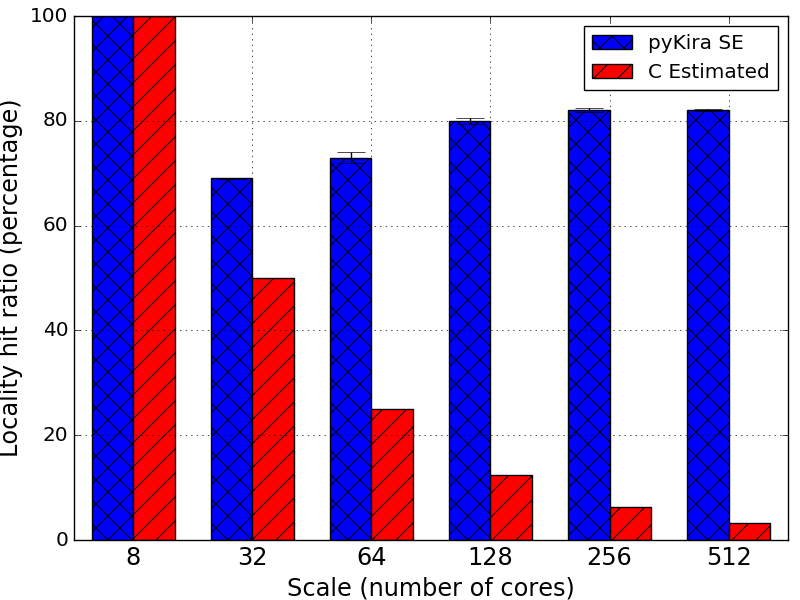
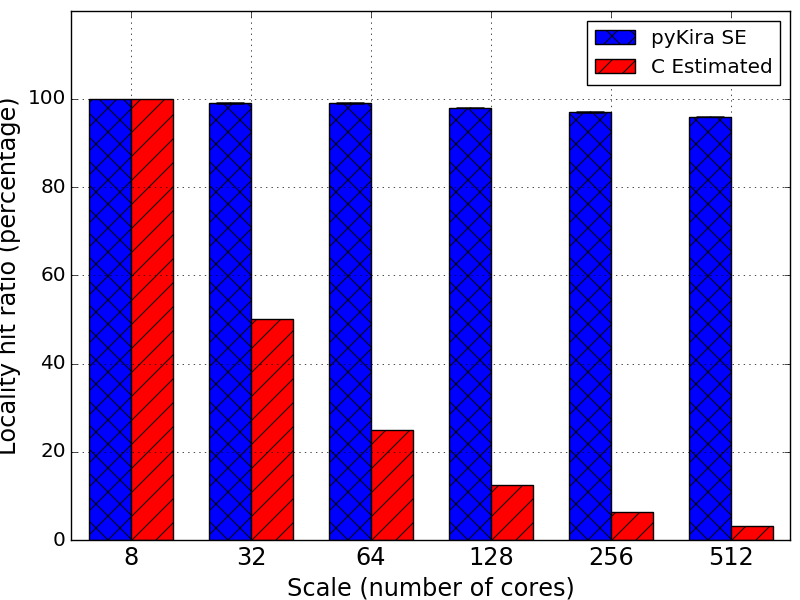
editing in performance

diff --git a/Kira.tex b/Kira.tex
@@ -63,6 +63,19 @@
 \usepackage{url}
 \usepackage{balance}
 
+\newif\ifdraft
+\drafttrue
+%\draftfalse                                                                              
+\ifdraft
+\newcommand{\zhaonote}[1]{{\textcolor{cyan}    { ***Zhao:      #1 }}}
+\newcommand{\note}[1]{ {\textcolor{red}    {\bf #1 }}}
+\newcommand{\franknote}[1]{{\textcolor{green}    { ***Frank:      #1 }}}
+\else
+\newcommand{\zhaonote}[1]{}
+\newcommand{\franknote}[1]{}
+\newcommand{\note}[1]{}
+\fi
+
 \lstset{language=java, numbers=left, numberstyle=\tiny\color{black}, numbersep=3pt, escapeinside={\$}, basicstyle=\footnotesize\ttfamily, escapeinside={\%*}{*)}}
 
 % Some very useful LaTeX packages include:
@@ -494,10 +507,10 @@ We present Kira, a flexible and distributed astronomy image processing toolkit u
 We then use the Kira toolkit to implement a Source Extractor application for astronomy images, called Kira SE.
 With Kira SE as the use case, we study the programming flexibility, dataflow richness, scheduling capacity and performance
 of Apache Spark running on the EC2 cloud.
-By exploiting data locality, Kira SE achieves a 2.5$\times$ speedup over an equivalent C program when analyzing a 1TB
+By exploiting data locality, Kira SE achieves a 4.1$\times$ speedup over an equivalent C program when analyzing a 1TB
 dataset using 512 cores on the Amazon EC2 cloud. 
-Furthermore, we show that by leveraging software originally designed for big data infrastructure, Kira SE achieves competitive performance to the C implementation
-running on the NERSC Edison supercomputer.
+Furthermore, we show that by leveraging software originally designed for big data infrastructure, Kira SE achieves a 1.8$\times$ speedup over  
+the C implementation running on the NERSC Edison supercomputer.
 Our experience with Kira indicates that emerging Big Data platforms such as Apache Spark are a performant alternative for many-task scientific applications.  
 
 \end{abstract}
@@ -584,7 +597,7 @@ We use a real world application, an image source extractor (Kira SE), to examine
 and scheduling capacity of Spark. We evaluate Kira SE's performance by comparing against
 an equivalent C implementation that is parallelized using HPC tools. Leveraging a platform like Apache Spark provides several advantages for many-task applications:
 \begin{enumerate}
-\item Spark can use existing astronomy libraries.
+\item Spark can use existing astronomy libraries written in Python and C.
 This allows astronomers to reuse existing libraries to build new analysis functionality.
 \item Spark supports a broad range of dataflow patterns such as pipeline, broadcast, scatter, gather, reduce, allgather, 
 and alltoall (shuffle). This broad dataflow pattern support can be used to optimize the data transfer between computation stages.
@@ -593,7 +606,7 @@ as well as data stored in HPC-style shared file systems such as GlusterFS~\cite{
 \item The Kira toolkit also inherits Spark's fault tolerance mechanism, which is a feature missing from MPI~\cite{gropp96}.
 \end{enumerate}
 
-Our experiments show that Spark is capable of managing $O(10^6)$ tasks and that Kira SE runs 2.5x faster than an equivalent C program when using a shared file system on the Amazon EC2 cloud with the 1TB Data Release 7 from the Sloan Digital Sky Survey~\cite{york00}. We also show that running Kira SE in the Amazon EC2 cloud can achieve performance that is competitive with running the equivalent C program running on the NERSC Edison supercomputer.
+Our experiments show that Spark is capable of managing $O(10^6)$ tasks and that Kira SE runs 4.1$\times$ faster than an equivalent C program when using a shared file system on the Amazon EC2 cloud with the 1TB Data Release 7 from the Sloan Digital Sky Survey~\cite{york00}. We also show that running Kira SE in the Amazon EC2 cloud can achieve performance that is 1.8$\times$ faster than that of the equivalent C program running on the NERSC Edison supercomputer.
 
 Our experience with Kira indicates that Big Data platforms such as Apache Spark are a competitive alternative for many-task scientific applications.   
 We believe this is important, because leveraging such platforms would enable scientists to benefit from the rapid pace of innovation and large range of systems and technologies that are being driven by wide-spread interest in Big Data analytics.
@@ -737,7 +750,7 @@ Spark improves upon
 Hadoop MapReduce by adding an in-memory processing model that natively supports iterative computation. 
 As compared to other DAG based methods such as DryadLINQ, this enables
 the efficient execution of chained pipeline stages. In a chained pipeline,
-I/O and communication are only performed before the first stage of the chain, and after the
+Disk I/O and inter-process communication are only performed before the first stage of the chain, and after the
 last stage of the chain. Spark uses communication barriers to synchronize the execution of each stage~\cite{zaharia12}.
 
 \section{Kira Design and Implementation}
@@ -745,27 +758,17 @@ last stage of the chain. Spark uses communication barriers to synchronize the ex
 
 When designing the Kira astronomy image processing toolkit, 
 we focused on improving computation and  I/O cost as well as on providing an flexible programming interface and supporting code reuse.
-%This section discusses the architecture overview in \S\ref{sec:Design-Overview} and the computation and I/O implementation
-%in \S\ref{sec:Design-Computation} and \S\ref{sec:Design-I/O}, respectively.
+
 
 \subsection{Architecture Overview}
 \label{sec:Design-Overview}
-%\zhaonote{Frank has a comment to rename Kira driver and worker to Spark driver and worker.}
-%\zhaonote{That was what we did in the previous version. We had a comment from the reviewer 
-%saying that we did not show Kira components, instead we were only showing Spark architecture.
-%So I think, since Kira is a domain-specific system, we can say there is a Kira driver that runs
-%on top of Spark driver, though it doesn't do anything fancy. But in this way, it is easier to present
-%the Kira architecture.}
-
-% Sorry, forgot about that reviewer comment. I think the reviewer is wrong, but alas, reviewers
-% are like customers. Specifically, the reviewer is always right... -FAN
 
 Kira's overall architecture is shown in Figure~\ref{fig:architecture}. 
 Each outer box with rounded corners is a process. A process can be
-a Kira Driver, a Kira Worker, or a HDFS daemon (NameNode or DataNode).
+a Spark Driver, a Spark Worker, or a HDFS daemon (NameNode or DataNode).
 Kira runs on top of Spark, which supports a single driver and multiple workers.
-The SEP library (shaded inner box) is deployed to all workers nodes. The input files are
-stored in the underlying file system.
+The SEP library (shaded inner box) is deployed to all workers nodes. 
+The input files are stored in the underlying file system.
 
 \begin{figure}[t]
 	\begin{center}
@@ -776,12 +779,16 @@ stored in the underlying file system.
 \end{figure}
 
 
-To run Kira, we dispatch the compiled program, the parameters, and library dependencies to the Kira Driver.
-The Kira Driver is then responsible for managing control flow, dataflow, and task scheduling 
-by coordinating the Kira workers. 
-The Kira Driver accesses distributed/parallel file systems for metadata.
-The actual I/O is distributed across the Kira worker nodes in
-parallel. To run a task, workers use the Java Native Interface (JNI) to call the SEP library.
+To run Kira, we submit the compiled program, the parameters, and library dependencies to the Spark Driver.
+The Spark Driver is then responsible for managing control flow, dataflow, and task scheduling 
+by coordinating the Spark workers. 
+The Spark Driver accesses distributed/parallel file systems for metadata.
+The actual I/O is distributed across the Spark worker nodes in parallel. 
+\zhaonote{talking about two interface}
+To run a task, workers call the SEP library for computation.
+With the Spark's native Scala/Java interface, Kira calls to C functions through Java Native Interface(JNI).
+While with Spark's Python (referred as pySpark in the rest of the paper) interface, Kira calls to the C function through
+a pre-compiled python interface provided by the SEP library. 
 
 \subsection{Computation}
 \label{sec:Design-Computation}
@@ -808,11 +815,6 @@ In order to not be locked in to the rigid control flow limitations of the \emph{
 we instead opt for a \textbf{library}-based model.
 This approach allows us to reuse the legacy code base without sacrificing control-flow flexibility.  
 
-%With the library interface, Kira users can build an iterative source
-%extractor by repeatedly calling into a group of Kira APIs. Listing~\ref{lst:SE-Iter} shows the source code of the
-%iterative source extractor.
-
-
 
 \subsection{I/O}
 \label{sec:Design-I/O}
@@ -824,26 +826,24 @@ HDFS, the file is split into blocks that are replicated across machines. When a 
 HDFS then provides information about which machines have each block of the file. This allows the
 scheduler to optimize task placement for data locality.
 
-%The mixed text and binary contents of FITS format makes compatibility with Kira difficult.
-%One way for Kira to be compatible with the FITS format while preserving file locality is to customize Spark's
-%HDFS client by passing the FITS class definition. This approach requires changes to the Spark code base and 
-%introduces additional overhead to manage an extra Spark branch that is compatible with the FITS format.
 
-Our solution uses the \texttt{SparkContext.binaryFiles()} API.
-This API loads all files within a directory as a sequence of tuples. Each tuple contains the file object and a byte
-stream containing the contents of the file. We then use the jFITS~\cite{jfits} library to convert these byte streams 
+Kira uses the \texttt{SparkContext.binaryFiles()} API.
+This API loads all files within a directory as a sequence of tuples. 
+Each tuple contains the file object and a byte stream containing the contents of the file. 
+With Spark's Scala interface, we then use the jFITS~\cite{jfits} library to convert these byte streams 
 into the FITS objects that users can transform and compute upon. 
+While with pySpark, we use the Astropy~\cite{astropy13} Python library.
 
 
 \section{Programming Kira}
 \label{sec:Programming}
-The Kira API is described
-in Table~\ref{tb:Primitives}. Background methods are used to estimate and remove the image background. The Extractor
+The Kira API is described in Table~\ref{tb:Primitives}. 
+Background methods are used to estimate and remove the image background. The Extractor
 API is used for extracting objects and estimating astrometric and photometric parameters. The Ellipse API offers helper
 functions for converting between ellipse representations, and for generating masks that are based on an object's elliptical
 shape. The \texttt{sum\_circle()}, \texttt{sum\_ellipse()}, and \texttt{kron\_radius()} methods in the extractor category and all
-methods in the ellipse category perform batch processing, where the input coordinates are passed as a three dimensional array. By processing objects
-in batches, we are able to amortize the cost of each Java Native Interface (JNI) call over many objects.
+methods in the ellipse category perform batch processing, where the input coordinates are passed as a three dimensional array. 
+With Spark's Scala API, we are able to amortize the cost of each Java Native Interface (JNI) call  by processing objects in batches.
 
 \begin{table*}[t]
 \begin{center}
@@ -928,13 +928,14 @@ Kira SE more efficiently use EC2 computing resources.
 Spark allows for both thread and process parallelism. By default, Spark makes use of
 thread-level parallelism by launching a single Java Virtual Machine~(JVM) per worker machine.
 Users then specify the number of threads to launch per worker (typically, one thread per core).
-However, in Kira SE, neither the jFITS nor the SEP libraries are thread safe. 
-To work around this,
-we configured Spark to support process level parallelism by launching a worker instance for each
-core. This configuration may reduce scalability,
-as it increases the number of workers the driver manages. However, our experiments with 512
-workers in~\S\ref{sec:Performance} show that Kira's scalability is not severely impacted by
-worker management overhead.
+However, with Spark's Scala API in Kira SE, neither the jFITS nor the JNI are thread safe. 
+To work around this, we configured Spark to support process level parallelism by launching 
+a worker instance for each core. 
+This configuration may reduce scalability, as it increases the number of workers the driver manages. 
+However, our experiments with 512 workers in~\S\ref{sec:Performance} show that Kira's scalability is 
+not severely impacted by worker management overhead.
+On the other hand, the Kira implementation with pySpark does not have the thread safety issue.
+In this case, we launch one Spark worker per machine, and utilize multi-threading for parallelism.
 
 \subsection{Scheduling}
 
@@ -965,7 +966,7 @@ Delay scheduling's parameters let users specify how long a task should wait for 
 This waiting time can be viewed as the expected job completion time difference between executing the task with data locality and without locality.
 In the Kira SE case, the need for scheduling a task to a node without locality only occurs when there is a possible
 starvation if we continue to enforce the locality. Since our input files are small, the cost of doing a remote fetch is low and thus we should only
-wait for a short period time~\cite{ananthanarayanan11}. By sweeping the waiting time, we found that not waiting 0ms delivered the best performance.
+wait for a short period time~\cite{ananthanarayanan11}. By sweeping the waiting time, we found that not waiting delivered the best performance.
 While this result seems to contradict our result in~\S\ref{sec:Performance} that states that Apache Spark outperforms
 the HPC solution due to data locality, it is not contradictory because even with no delay scheduling, 
 98\% of the tasks scheduled have local data.  Thus the delay scheduling penalty is not needed in this case.   
@@ -999,36 +1000,42 @@ file I/O is similar to GlusterFS, file system metadata is consolidated onto a sm
 \section{Performance}
 \label{sec:Performance}
 
-We evaluate Kira SE's performance against the HPC solution with the SEP library
-(referred to as the C version in the following text). Because it uses SEP, Kira SE performs an identical amount of
-computation and I/O as the C version.
+We evaluate Kira SE's performance with both Spark's Scala and Python API against the HPC solution with the 
+C code in the SEP library (referred to as the C version in the following text). 
+Because all implementations use the same SEP library, Kira SE (both Scala and Python implementation) 
+perform an identical amount of computation and I/O as the C version.
 
-To understand Spark's overhead, we compare the C implementation against Kira SE on a single
+To understand Spark's overhead, we first compare Kira SE's performance against the C version on a single
 machine. Then we fix the problem size and scale Kira SE and the C implementation across a
 varying number of machines on EC2 to understand the relative scalability of each approach.
 The 1TB experiments demonstrate the difference in performance between Kira SE and the C version
 for large dataset processing. Finally, we show some interesting results when running the C
 version on the Edison supercomputer that is deployed at the National Energy Research Scientific Computing Center (NERSC).
 
-In all experiments using Amazon's EC2 service, we use m2.4xlarge instances.
-This instance type has eight cores (each running at 2.4GHz), 68~GB RAM, two hard disk drives (HDD), and Gigabit Ethernet. 
-We chose a HDD based configuration as opposed to Amazon's newer solid state drive (SSD) backed instances to give a fair comparison
-against the Edison supercomputer, which is backed by HDDs. 
+In all experiments using Amazon's EC2 service, we use m2.4xlarge instances for spinning disks and r3.2xlarge instance for solid state disks.
+The m2.4xlarge instance type has eight cores (each running at 2.4GHz), 68~GB RAM, two hard disk drives (HDD), and Gigabit Ethernet. 
+We chose this HDD based configuration to give a fair comparison against the Edison supercomputer, which is backed by HDDs. 
+An performance study with newer solid state drive (SSD) backed instances is also conducted.
 Software configurations are described in the following experiments.
+If not stated otherwise, we run each experiment three times, and present the average.
+Error bars in the figures are standard deviation of the measurements.
 
 \subsection{Single Machine Performance}
 \label{sec:Performance-scaleup}
 
 The purpose of the scale-up experiments is to understand Spark's overhead by running
-Kira SE on a single node. Slowdown is caused mainly by Java Virtual Machine (JVM) overhead. 
-We also wanted to identify the factors
-that bound Kira SE's performance. For both Kira SE and the C implementation, we store data
-locally in an ext4 file system.
+Kira SE on a single node. 
+With Spark's Scala API, the performance lowdown is caused mainly by Java Virtual Machine (JVM) and JNI overhead.
+With pySpark, the slowdown is contributed by the interaction between the runtime of Scala, Python and C. 
+We also wanted to identify the factors that bound Kira SE's performance. 
+For both Kira SE and the C implementation, we store data locally in an ext4 file system.
 
 For this experiment, we use a 12GB dataset from the SDSS DR2 survey. The dataset contains
 2310 image files and each image is $\sim$6MB.
 Figure~\ref{fig:scaleup} shows the relative
 performance of Kira SE and the C version for various core counts on a single machine.
+To differentiate Kira SE's performance with Spark's Scala API and Python API, we refer
+to the two implementations as scalaKira SE and pyKira SE, respectively.
 
 \begin{figure}[h]
 	\begin{center}
@@ -1038,9 +1045,12 @@ performance of Kira SE and the C version for various core counts on a single mac
   	\end{center}
 \end{figure}
 
-The C version is bound by local disk performance and shows limited improvement with
-an increasing core count. While Kira SE is $7.4\times$ slower than the C implementation
+The C version is bound by local disk performance and shows a 65\% improvement with
+eight cores compared to that of a single core. 
+Though scalaKira SE is $7.4\times$ slower than the C implementation
 on a single core, Kira SE is within $2.2\times$ the performance of the C version when using all eight cores on the node.
+The pyKira SE is 39.7\% slower than the C implementation with a single core, while this performance gap
+shrinks as the core count increases. And the performance of pyKira SE converges to the C performance from four cores.
 The scaling curves indicate that the performance of the approaches begins to converge
 as core count increases. At convergence, both of the approaches will be saturating the local
 disk bandwidth.
@@ -1055,20 +1065,26 @@ SExtractor is disk bound, we believe that it is representative of a data intensi
 \label{sec:Performance-scaleout}
 
 Next, we wanted to understand the strong scaling performance of both Kira SE and the C
-implementation. Although Kira SE has 2.2--7.4$\times$ worse performance when running on
+implementation. Although scalaKira SE has 2.2$\times$ worse performance when running on
 a single machine, we expect that Kira SE will achieve better performance at scale due
-to disk locality. We expect that this will allow Kira SE to outperform the C implementation
-on large clusters.
+to disk locality. We expect that this will allow scalaKira SE to outperform the C implementation
+on large clusters. 
+For pyKira SE, it can be viewed as an improvement combination of locality and native C
+computation performance. We expect pyKira SE to be faster than the C implementation
+at all scales.
 
-We use a 65GB dataset from the SDSS DR2 survey that comprises 11,150 image files.
+We use a 65GB dataset from the SDSS DR7 survey that comprises 11,150 image files.
 Kira SE was configured to use HDFS as a storage system, while the C version used GlusterFS. 
 Both HDFS and GlusterFS are configured with a replication factor of two.
 
-Figure~\ref{fig:scaleout} compares the performance of Kira SE and the C version across
-multiple compute nodes in log scale. Kira SE is 2.7x slower as the C version
-on eight cores. However, the gap between the two implementations decreases as we scale up. 
-On 256 cores and 512 cores, Kira SE is respectively 5.6\% and 22.4\% faster than the C version.
-Across all scales, Kira SE achieves near linear speedup.
+Figure~\ref{fig:scaleout} compares the performance of scalaKira SE, pyKira SE, and the C version across
+multiple compute nodes in log scale. 
+ScalaKira SE is 2.7$times$ slower as the C version on eight cores. 
+However, the gap between the two implementations decreases as we scale up. 
+On 256 cores and 512 cores, scalaKira SE is respectively 5.6\% and 22.4\% faster than the C version.
+The pyKira SE shows a more significant improvement over the C implementation with a speedup of
+2.2$\times\sim$3.1$\times$ across scales.
+Both the scalaKira SE and pyKira SE show a close linear scalability.
 
 \begin{figure}[h]
 	\begin{center}
@@ -1078,11 +1094,11 @@ Across all scales, Kira SE achieves near linear speedup.
   	\end{center}
 \end{figure}
 
-The fundamental driver of Kira SE's linear scalability is its consistent local disk
+The fundamental driver of scalaKira SE's and pyKira SE's linear scalability is its consistent local disk
 hit ratio, which is the ratio between the number of tasks that access the input file 
 on local disk and total number of tasks. Spark and HDFS optimize for data locality during scheduling and achieve a
-hit ratio above 98\%, as shown in Figure~\ref{fig:locality}. In contrast, the
-C implementation's locality hit ratio decreases in half as the cluster size doubles.
+hit ratio around 98\% with a small standard deviation (around 0.2\%), as shown in Figure~\ref{fig:locality}. 
+In contrast, the C implementation's estimated locality hit ratio decreases in half as the cluster size doubles.
 
 \begin{figure}[h]
 	\begin{center}
@@ -1122,10 +1138,10 @@ know the location of the metadata of a given file name in the cluster.
 
 We evaluate these configurations using the same dataset as the scale-out experiment. We
 select 128 cores and 256 cores as the target scale since it is the transition point in
-Figure~\ref{fig:scaleout} where Kira SE begins to outperform the C version. As stated
-previously in~\S\ref{sec:HPC}, the C version performs a two-step process. The first step collects and
-partitions all file paths. We refer to this step as metadata overhead. The processing
-step occurs next, and is where each node processes its own partition.
+Figure~\ref{fig:scaleout} where scalaKira SE begins to run faster than the C version. 
+As stated previously in~\S\ref{sec:HPC}, the C version performs a two-step process. 
+The first step collects and partitions all file paths. We refer to this step as metadata overhead. 
+The processing step occurs next, and is where each node processes its own partition.
 Figure~\ref{fig:allgluster} compares the performance of Kira SE and the C version with
 profiled metadata overhead.  
 

diff --git a/pictures/locality.py b/pictures/locality.py
@@ -4,8 +4,10 @@ import numpy as np
 import matplotlib.pyplot as plt
 
 N = 6
-Kira = (100, 69, 73, 80, 82, 82)
-KiraSDV = (0, 0.02, 1.06, 0.55, 0.38, 0.19)
+#Kira = (100, 69, 73, 80, 82, 82)
+#KiraSDV = (0, 0.02, 1.06, 0.55, 0.38, 0.19)
+Kira = (100, 99, 99, 98, 97, 96)
+KiraSDV = (0, 0.2, 0.2, 0.06, 0.3, 0.2)
 C = (100, 50, 25, 12.5, 6.3, 3.2)
 
 ind = 0.15+np.arange(N)  # the x locations for the groups
@@ -15,7 +17,7 @@ ax = plt.subplot()
 rects1 = ax.bar(ind, Kira, width, color='blue', hatch="x", yerr=np.multiply(KiraSDV, 1), ecolor='black', error_kw=dict(markersize=4, capsize=10, elinewidht=2))
 #rects1 = ax.bar(ind, Kira, width, yerr=KiraSDV, color='b', ecolor='black', error_kw=dict(elinewidth=4, capsize=4, markersize=10))
 rects2 = ax.bar(ind+width, C, width, color='red', hatch="/")
-ax.set_ylim([0, 100])
+ax.set_ylim([0, 120])
 ax.grid(True)
 
 # add some text for labels, title and axes ticks
@@ -23,7 +25,7 @@ ax.set_xlabel('Scale (number of cores)', size='x-large')
 ax.set_ylabel('Locality hit ratio (percentage)', size='x-large')
 ax.set_xticks(ind+width)
 ax.set_xticklabels( ('8', '32', '64', '128', '256', '512'), size='x-large') 
-plt.yticks(size='large')
+plt.yticks((0, 20, 40, 60, 80, 100), size='large')
 ax.legend( (rects1[0], rects2[0]), ('pyKira SE', 'C Estimated') )
 
 plt.show()
